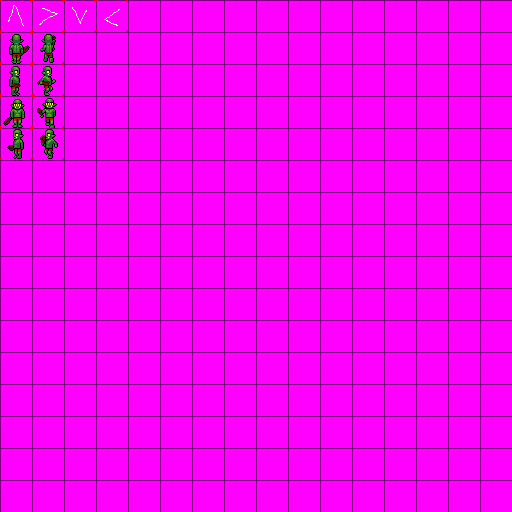
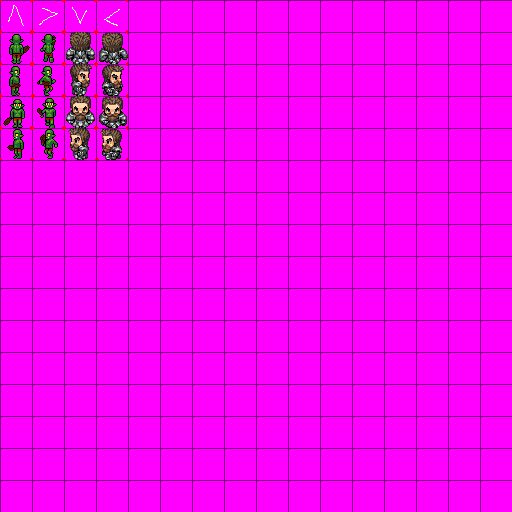
- Changed player sprite, mob swords now show.

Changed region(s): [[0.125, 0.0625, 0.25, 0.3125]]

diff --git a/Protect the Dungeon/src/com/gpg/ptd/level/Fight.java b/Protect the Dungeon/src/com/gpg/ptd/level/Fight.java
@@ -32,7 +32,7 @@ public class Fight extends Dungeon{
 	}
 	
 	private void init(){
-		player = new Player(0, 5 * 32, 15 * 32, "name", 100, this, key, random); //TODO: *32 or something
+		player = new Player(0, 5 * 32, 15 * 32, "name", 10000, this, key, random); //TODO: *32 or something
 //		mobs.add(new Orc(1, 12 * 32, 16 * 32, "orc", 100, this, pathfinder, random));
 		xScroll = player.getX() - screen.width / 2;
 		yScroll = player.getY() - screen.height/ 2;
@@ -84,12 +84,12 @@ public class Fight extends Dungeon{
 		for(Spawner s : spawners) s.update();
 		for(Mob m : mobs){
 			m.update();
-			mob[m.getX() / 32][m.getY() / 32] = m.getId();
+			mob[m.getTileX()][m.getTileY()] = m.getId();
 		}
 		for(Item i : items) i.update();
 		for(Particle p : particles) p.update();
 		player.update();
-		mob[player.getX() / 32][player.getY() / 32] = player.getId();
+		mob[player.getTileX()][player.getTileY()] = player.getId();
 		
 		removeParticles();
 		removeMobs();
@@ -136,6 +136,25 @@ public class Fight extends Dungeon{
 			font.render(s.getAmount() + "", s.getX() * 32 - xScroll, s.getY() * 32 - yScroll, 0xffffffff, 4, true, screen);
 		}
 		
+		for(int y = 0; y < height; y++){
+			for(int x = 0; x < width; x++){
+				for(int ya = 0; ya < 32; ya++){
+					for(int xa = 0; xa < 32; xa++){
+						if(ya == 0 || xa == 0){
+							screen.renderPixelTrans(xa + x * 32 - xScroll, ya + y * 32 - yScroll, 0xffffffff, 0.7f);
+						}
+					}
+				}
+				
+				if(mob[x][y] != -1){
+					screen.renderPixel(x * 32 - xScroll, y * 32 - yScroll, 0xff00FF04);
+					screen.renderPixel(x * 32 - xScroll + 1, y * 32 - yScroll + 1, 0xff00FF04);
+					screen.renderPixel(x * 32 - xScroll, y * 32 - yScroll + 1, 0xff00FF04);
+					screen.renderPixel(x * 32 - xScroll + 1, y * 32 - yScroll, 0xff00FF04);
+				}
+			}
+		}
+		
 		font.render("WASD to move, arrow keys to attack.", 500, 710, 0xffffffff, 1, true, screen);
 		font.render("Mob Count: " + mobs.size(), 10, 700, 0xffffffff, 1, true, screen);
 		font.render("Particle Count: " + particles.size(), 10, 710, 0xffffffff, 1, true, screen);
@@ -178,6 +197,7 @@ public class Fight extends Dungeon{
 				((HostileMob)mob).getSpawner().remove(1);
 				i.remove();
 				for(int j = 0; j < 5; j++) addParticle(new BloodParticle(getParticles().size(), mob.getX(), mob.getY(), 0xff6E2120, 8, 1.1, this, random));
+				items.add(new Gold(items.size(), mob.getX(), mob.getY(), mob.getInventory().getGold(), this, random));
 				player.addScore(mob.getScore());
 				continue;
 			}

diff --git a/Protect the Dungeon/src/com/gpg/ptd/entity/mob/Player.java b/Protect the Dungeon/src/com/gpg/ptd/entity/mob/Player.java
@@ -24,10 +24,12 @@ public class Player extends Mob{
 		this.name = name;
 		this.key = key;
 		
-		collision_width = 15;
-		collision_height = 15;
-		collision_w_offset = 7;
-		collision_h_offset = 7;
+		health = 100000;
+		
+		collision_width = 26;
+		collision_height = 26;
+		collision_w_offset = 3;
+		collision_h_offset = 3;
 		
 		weight = 10;
 		
@@ -43,12 +45,13 @@ public class Player extends Mob{
 	}
 
 	public void update(){
-		
 		key.update();
 		int xa = 0;
 		int ya = 0;
 		
-	
+		animation();
+		calculateBobbing();
+		if(knockback > 0.0f) calculateKnockback();
 		
 		if(key.shift && moving){
 			if(energy > 0.0f){
@@ -101,19 +104,22 @@ public class Player extends Mob{
 		else moving = false;
 
 		calculateBobbing();
-		tileX = x / 32;
-		tileY = y / 32;
+		tileX = (x + 16) / 32;
+		tileY = (y + 16) / 32;
 	}
 		
 	public void render(int xScroll, int yScroll, Screen screen){
 		if(attackTime > 0){
-			if(attDir == 0) screen.render(x - xScroll, y - yScroll - 25, 1, 2, 32, 1, SpriteSheet.textures);
-			if(attDir == 1) screen.render(x - xScroll + 25, y - yScroll, 0, 2, 32, 1, SpriteSheet.textures);
-			if(attDir == 2) screen.render(x - xScroll, y - yScroll + 23, 2, 2, 32, 1, SpriteSheet.textures);
-			if(attDir == 3) screen.render(x - xScroll - 25, y - yScroll, 3, 2, 32, 1, SpriteSheet.textures);
+			if(attDir == 0) screen.render(x - xScroll, (int) (y - yScroll - 15 - bob), 1, 2, 32, 1, SpriteSheet.textures);
+			if(attDir == 1) screen.render(x - xScroll + 19, (int) (y - yScroll + 6 - bob), 0, 2, 32, 1, SpriteSheet.textures);
+			if(attDir == 3) screen.render(x - xScroll - 19, (int) (y - yScroll + 6 - bob), 3, 2, 32, 1, SpriteSheet.textures);
 		}
 		
-		screen.render(x - xScroll, y - yScroll, 0 + dir, 0, 32, 1, SpriteSheet.mobs);
+		screen.render((x) - xScroll, (int) ((y) - yScroll - bob), 2 + frame, 1 + dir, 32, 1, SpriteSheet.mobs);
+		
+		if(attackTime > 0){
+			if(attDir == 2) screen.render(x - xScroll - 1, (int) (y - yScroll + 23 - bob), 2, 2, 32, 1, SpriteSheet.textures);
+		}
 		
 		for(int c = 0; c < 4; c++){
 			int xt = ((x - xScroll) + c % 2 * collision_width + collision_w_offset);

diff --git a/Protect the Dungeon/src/com/gpg/ptd/entity/mob/Orc.java b/Protect the Dungeon/src/com/gpg/ptd/entity/mob/Orc.java
@@ -27,14 +27,9 @@ public class Orc extends HostileMob{
 		lastY = y;
 		if(target == null) wanderSpawner();
 		else{
-			pathTo(new Vector2i(x / 32, y / 32), new Vector2i((target.getX() + 16)/ 32, (target.getY() + 16) / 32));
-			
-			if(target.getY() < y) attDir = 0;
-			if(target.getX() > x) attDir = 1;
-			if(target.getY() > y) attDir = 2;
-			if(target.getX() < x) attDir = 3;
-						
-			attack(dir, random.nextInt(4));
+			pathTo(new Vector2i(x / 32, y / 32), new Vector2i((target.getX() + 16)/ 32, (target.getY() + 16) / 32));	
+			attDir = dir;
+			attack(attDir, random.nextInt(4));
 		}
 		animation();
 		calculateBobbing();
@@ -45,12 +40,21 @@ public class Orc extends HostileMob{
 //		pathTo(new Vector2i(x / 32, y / 32), new Vector2i(dungeon.getPlayer().getX() / 32, dungeon.getPlayer().getY() / 32));
 
 		time++;
-		tileX = x / 32;
-		tileY = y / 32;
+		tileX = (x + 16) / 32;
+		tileY = (y + 16) / 32;
 	}
 	
 	public void render(int xScroll, int yScroll, Screen screen){
+		if(attackTime > 0){
+			if(attDir == 0) screen.render(x - xScroll, (int) (y - yScroll - 15 - bob), 1, 2, 32, 1, SpriteSheet.textures);
+			if(attDir == 1) screen.render(x - xScroll + 19, (int) (y - yScroll + 6 - bob), 0, 2, 32, 1, SpriteSheet.textures);
+			if(attDir == 3) screen.render(x - xScroll - 19, (int) (y - yScroll + 6 - bob), 3, 2, 32, 1, SpriteSheet.textures);
+		}
 		screen.render((x) - xScroll, (int) ((y) - yScroll - bob), 0 + frame, 1 + dir, 32, 1, SpriteSheet.mobs);
+		if(attackTime > 0){
+			if(attDir == 2) screen.render(x - xScroll - 1, (int) (y - yScroll + 23 - bob), 2, 2, 32, 1, SpriteSheet.textures);
+		}
+		
 		//Render collision box
 		for(int c = 0; c < 4; c++){
 			int xt = ((x - xScroll) + c % 2 * collision_width + collision_w_offset);

diff --git a/Protect the Dungeon/src/com/gpg/ptd/entity/mob/Mob.java b/Protect the Dungeon/src/com/gpg/ptd/entity/mob/Mob.java
@@ -16,6 +16,7 @@ public class Mob extends Entity{
 
 	protected int lastX, lastY;
 	
+	
 	protected float speed;
 	protected final float MAX_SPEED = 4.0f;
 	protected final float MIN_SPEED = 2.0f;
@@ -80,19 +81,22 @@ public class Mob extends Entity{
 			return;
 		}	
 				
-		if(xa > 0) dir = 1;
-		if(xa < 0) dir = 3;
-		if(ya > 0) dir = 2;
-		if(ya < 0) dir = 0;
+		if(knockback <= 0){
+			if(xa > 0) dir = 1;
+			if(xa < 0) dir = 3;
+			if(ya > 0) dir = 2;
+			if(ya < 0) dir = 0;
+		}
 		
 		if(attDir != -1) dir = attDir;
 		
-		if(!tileCollision(xa, ya) && !mobCollision(xa, ya)){
-				moving = true;
-				x += xa;
-				y += ya;
-				return;
-		}
+		if(tileCollision(xa, ya)) return;
+		if(mobCollision(xa, ya)) return;
+		
+		moving = true;
+		x += xa;
+		y += ya;
+		return;
 	}
 	
 	/*
@@ -112,7 +116,7 @@ public class Mob extends Entity{
 	
 	public void calculateBobbing(){
 		float maxB = 3.5f;
-		float inc = 0.657f;
+		float inc = 0.25f;
 		
 		if(moving){
 			if(up){
@@ -142,7 +146,7 @@ public class Mob extends Entity{
 		if(m != null) return true;
 		return false;
 	}
-	
+
 	public boolean tileCollision(int xa, int ya){
 		for(int c = 0; c < 4; c++){
 			int xt = ((x + xa) + c % 2 * collision_width + collision_w_offset) / 32;
@@ -160,12 +164,9 @@ public class Mob extends Entity{
 	}
 	
 	public void checkForMob(int x, int y, int attDir, int damage){
-		Mob m = dungeon.checkAndGetMob((x + 16) / 32, (y + 16) / 32, attDir, this);
-		if(m != null){
-			m.damage(damage, attDir, this);
-		}else{
-			
-		}
+		Mob m = dungeon.checkAndGetMob((x) / 32, (y) / 32, attDir, this);
+		if(m != null) m.damage(damage, attDir, this);
+		
 	}
 	
 	public void animation(){

diff --git a/Protect the Dungeon/src/com/gpg/ptd/level/Dungeon.java b/Protect the Dungeon/src/com/gpg/ptd/level/Dungeon.java
@@ -126,10 +126,28 @@ public class Dungeon {
 			int mw = mx + m.getCollision_width();
 			int mh = my + m.getCollision_height();
 			
+			/*
+			 * x0 = topLeft
+			 * y0 = topRight
+			 * x1 = bottomRight
+			 * y1 = bottomLeft
+			 * 
+			 * mx = topLeft
+			 * my = topRight
+			 * mw = bottomRight
+			 * mh = bottomLeft
+			 */
+			
 			if(x0 > mx && x0 < mw && y0 > my && y0 < mh) return m;
 			if(x1 > mx && x1 < mw && y1 > my && y1 < mh) return m;
 			if(x0 > mx && x0 < mw && y1 > my && y1 < mh) return m;
 			if(x1 > mx && x1 < mw && y0 > my && y0 < mh) return m;
+			
+			if(mx > x0 && mw < x0 && my > y0 && mh < y0) return m;
+			if(mx > x1 && mw < x1 && my > y1 && mh < y1) return m;
+			if(mx > x0 && mw < x0 && my > y1 && mh < y1) return m;
+			if(mx > x1 && mw < x1 && my > y0 && mh < y0) return m;
+			
 			
 		}
 		
@@ -142,6 +160,11 @@ public class Dungeon {
 		if(x1 > px && x1 < pw && y1 > py && y1 < ph) return player;
 		if(x0 > px && x0 < pw && y1 > py && y1 < ph) return player;
 		if(x1 > px && x1 < pw && y0 > py && y0 < ph) return player;
+		
+		if(px > x0 && pw < x0 && py > y0 && ph < y0) return player;
+		if(px > x1 && pw < x1 && py > y1 && ph < y1) return player;
+		if(px > x0 && pw < x0 && py > y1 && ph < y1) return player;
+		if(px > x1 && pw < x1 && py > y0 && ph < y0) return player;
 		
 		
 		return null;

diff --git a/Protect the Dungeon/src/com/gpg/ptd/entity/particle/BloodParticle.java b/Protect the Dungeon/src/com/gpg/ptd/entity/particle/BloodParticle.java
@@ -46,12 +46,13 @@ public class BloodParticle extends Particle {
 //		y = (int) yy;
 		move(xx, yy);
 	}
-	
+		
 	public void render(int xScroll, int yScroll, Font font, Screen screen){
 		
 		for(int yb = 0; yb < size; yb++){
 			for(int xb = 0; xb < size; xb++){
-				screen.renderPixel((xb + x + 16) - xScroll, (yb + y + 16) - yScroll - (int) (zz), col);
+				screen.renderPixelTrans((xb + x + 16) - xScroll, (yb + y + 16) - yScroll - (int) (zz), 0xff000000, 0.75f);
+				screen.renderPixelTrans((xb + x + 16) - xScroll, (yb + y + 16) - yScroll - (int) (zz), col, 0.6f);
 			}
 		}
 		

diff --git a/Protect the Dungeon/src/com/gpg/ptd/graphics/Screen.java b/Protect the Dungeon/src/com/gpg/ptd/graphics/Screen.java
@@ -26,7 +26,11 @@ public class Screen {
 	public void renderPixel(int x, int y, int col){
 		if(x  < 0 || y < 0 || x >= width || y >= height) return;
 		pixels[x + y * width] = col;
-		
+	}
+	
+	public void renderPixelTrans(int x, int y, int col, float trans){
+		if(x  < 0 || y < 0 || x >= width || y >= height) return;
+		pixels[x + y * width] = blend(col, pixels[x + y * width], trans);
 	}
 	
 	public void renderPixelBlend(int x, int y, int colA, int colB){

diff --git a/Protect the Dungeon/src/com/gpg/ptd/entity/particle/TextParticle.java b/Protect the Dungeon/src/com/gpg/ptd/entity/particle/TextParticle.java
@@ -46,8 +46,9 @@ public class TextParticle extends Particle{
 		
 	}
 	
+	
+	
 	public void render(int xScroll, int yScroll, Font font, Screen screen){
-		
 		font.render(msg, (x) - xScroll , (y) - yScroll - life , col, size, true, screen);
 	}
 }

diff --git a/Protect the Dungeon/src/com/gpg/ptd/entity/particle/Particle.java b/Protect the Dungeon/src/com/gpg/ptd/entity/particle/Particle.java
@@ -28,7 +28,7 @@ public class Particle extends Entity{
 	public void render(int xScroll, int yScroll, Font font, Screen screen){
 		
 	}
-	
+		
 	public void move(double xc, double yc) {
 //		if(collision(xc, yc)){
 //			this.xa *= 0.8;

diff --git a/Protect the Dungeon/src/com/gpg/ptd/Game.java b/Protect the Dungeon/src/com/gpg/ptd/Game.java
@@ -44,7 +44,7 @@ public class Game {
 		this.user = user;
 		
 		state = new GameState();
-		font = new Font();
+		font = new Font(); 
 		switchState(4);
 		
 		init();

diff --git a/Protect the Dungeon/src/com/gpg/ptd/entity/item/Inventory.java b/Protect the Dungeon/src/com/gpg/ptd/entity/item/Inventory.java
@@ -51,6 +51,10 @@ public class Inventory {
 		return result;
 	}
 	
+	public int getGold(){
+		return gold;
+	}
+	
 	public void addGold(int g){
 		gold += g;
 	}
